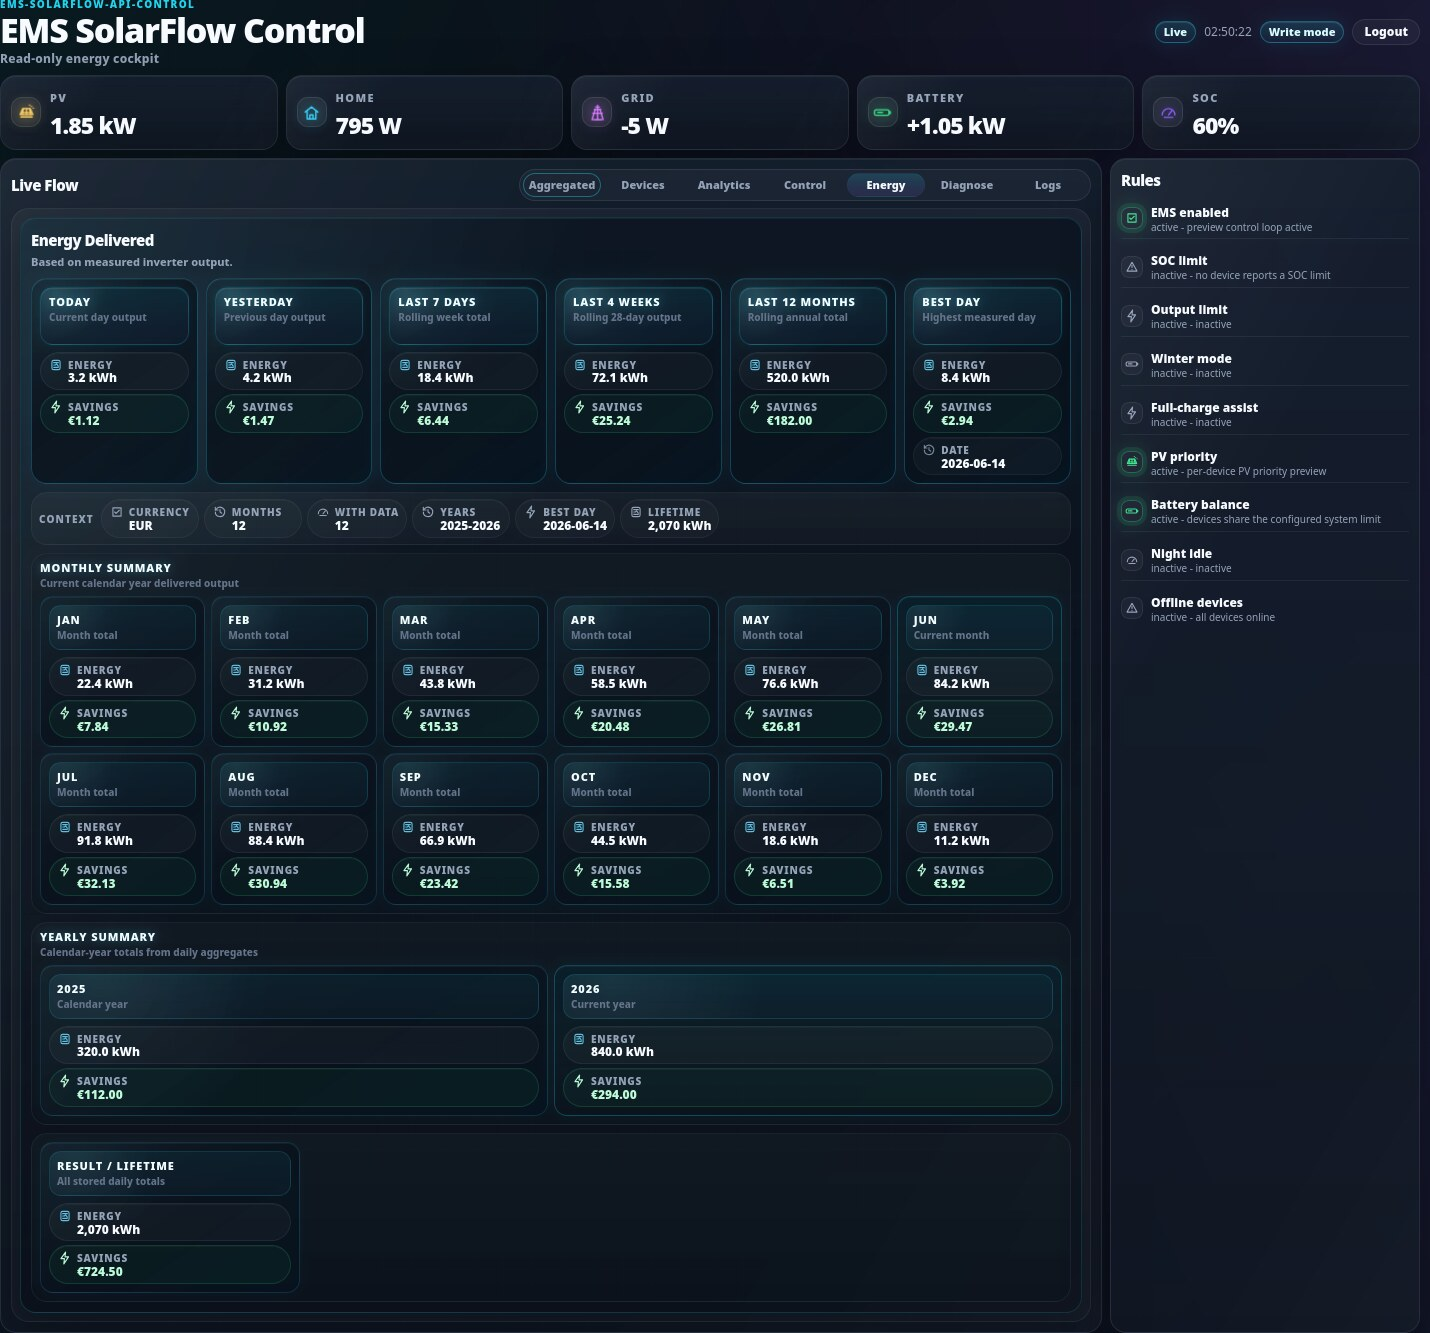
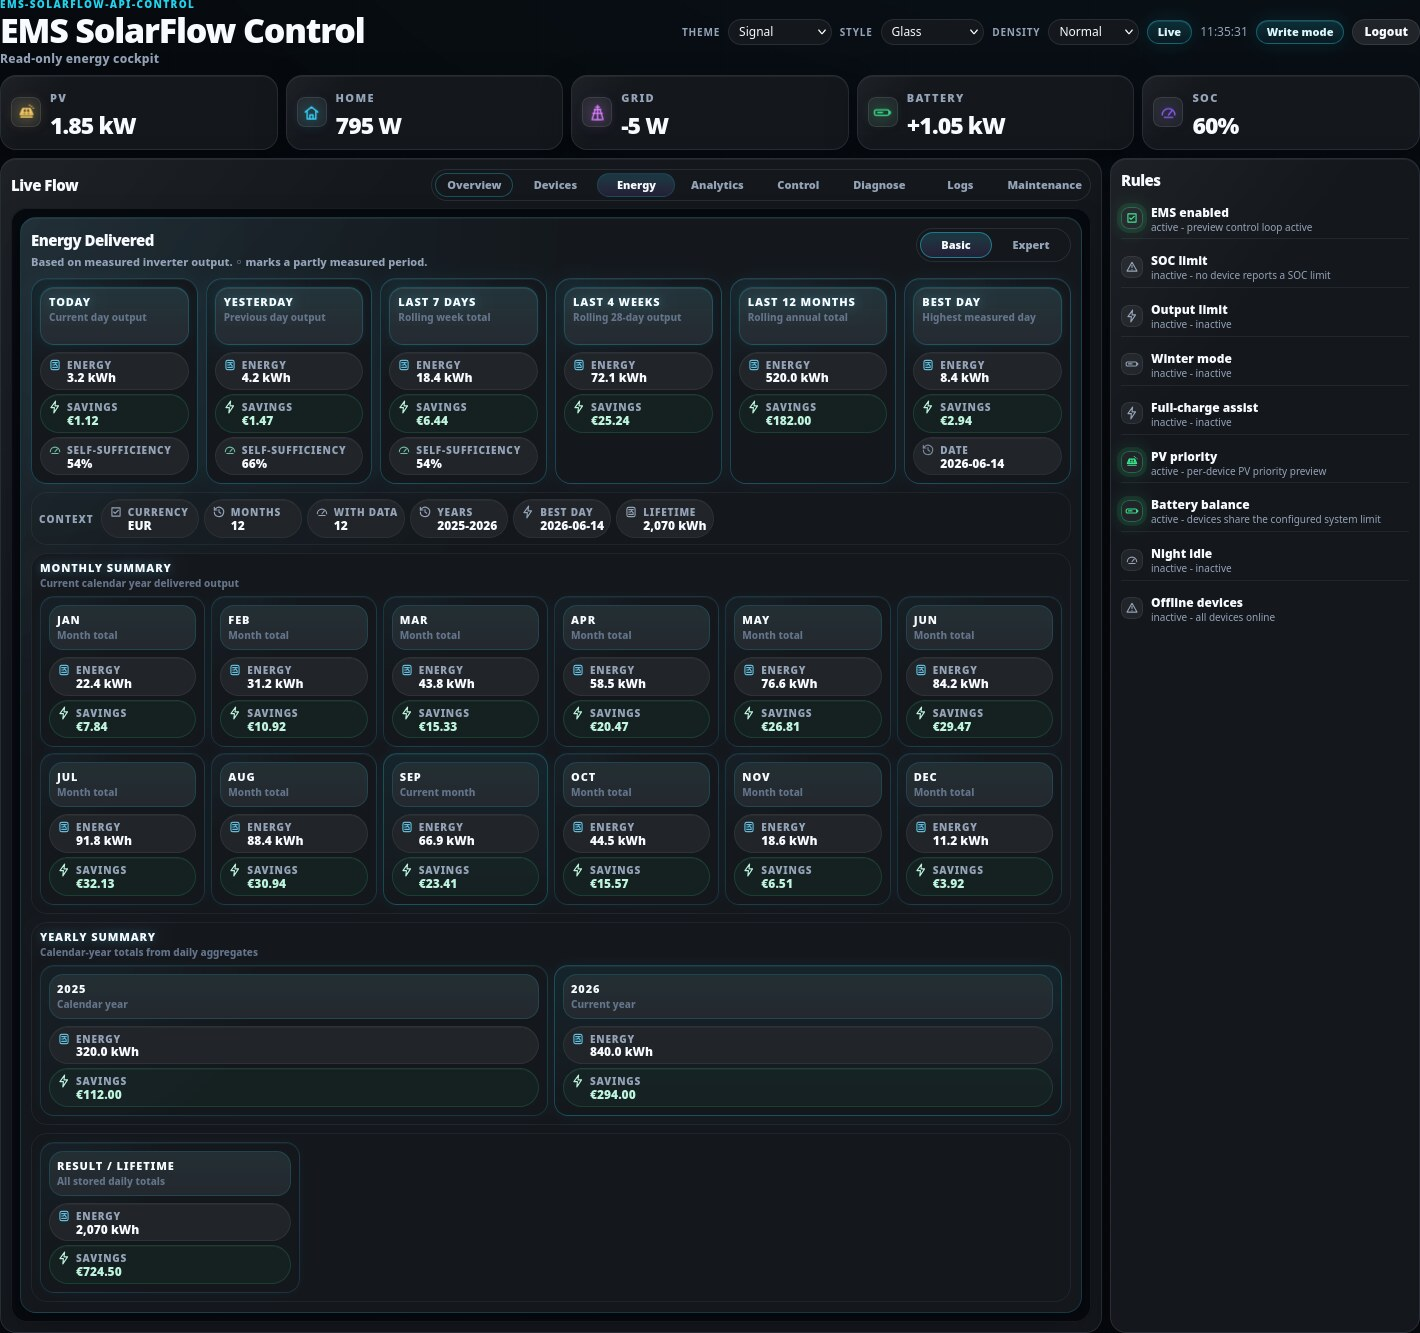
docs(dashboard): the energy screenshots show the board that ships
The captured energy board predated the feature: no detail switch, no
self-sufficiency, no channels, while the page next to it described all three.

Expert needs a second shot, and its state lives in localStorage rather than in
the payload, so the preview server takes a validated detail parameter through
the bootstrap it already injects. The expert board also outgrows the standard
capture window, which would have documented a board ending mid-card.

diff --git a/scripts/serve_dashboard_preview.py b/scripts/serve_dashboard_preview.py
@@ -79,20 +79,33 @@ SAFE_RESPONSE_CONTENT_TYPES = {
 }
 
 
-def _preview_injection(view):
+ENERGY_DETAIL_LEVELS = ("basic", "expert")
+
+
+def _preview_injection(view, energy_detail=None):
     """Minimal bootstrap injected into the real index.html.
 
     Sets the persisted flow view so the page opens directly in the requested
     view, then re-uses the existing frontend functions (setFlowView, runDiagnose)
-    once the page is ready. Values are constants from a fixed allow-list, so no
-    dynamic/user data is interpolated into the page.
+    once the page is ready. ``energy_detail`` seeds the energy board's
+    basic/expert choice, which lives in localStorage rather than in the payload,
+    so a screenshot can document the expert rows. Values are constants from a
+    fixed allow-list, so no dynamic/user data is interpolated into the page.
     """
 
     view_json = json.dumps(view)
+    detail_seed = ""
+    if energy_detail in ENERGY_DETAIL_LEVELS:
+        detail_json = json.dumps(energy_detail)
+        detail_seed = (
+            f"try{{window.localStorage.setItem('dashboard.energyDetail',{detail_json});}}"
+            "catch(e){}"
+        )
     before = (
         "<script>"
         f"try{{window.localStorage.setItem('dashboard.flowView',{view_json});}}"
         "catch(e){}"
+        f"{detail_seed}"
         "</script>"
     )
     after = f"""
@@ -397,7 +410,7 @@ class PreviewHandler(BaseHTTPRequestHandler):
             self._send_landing()
             return
         if path.startswith("/preview/"):
-            self._send_preview(path[len("/preview/"):])
+            self._send_preview(path[len("/preview/"):], parsed.query)
             return
         if path in ("/preview-diagnose.html", "/preview-logs.html"):
             # Backwards-compatible aliases for the original screenshot helper.
@@ -653,15 +666,19 @@ class PreviewHandler(BaseHTTPRequestHandler):
         body = _landing_page(self.server.scenario_name).encode("utf-8")
         self._send_bytes(body, "text/html; charset=utf-8")
 
-    def _send_preview(self, raw_view):
+    def _send_preview(self, raw_view, query=""):
         view = raw_view.strip("/").lower()
         if view not in FLOW_VIEWS:
             self.send_error(404, "Unknown preview view")
             return
+        detail = (parse_qs(query).get("detail") or [None])[0]
+        if detail is not None and detail not in ENERGY_DETAIL_LEVELS:
+            self.send_error(404, "Unknown energy detail level")
+            return
         index_path = os.path.join(STATIC_DIR, "index.html")
         with open(index_path, encoding="utf-8") as handle:
             html = handle.read()
-        before, after = _preview_injection(view)
+        before, after = _preview_injection(view, detail)
         seed = self._chart_seed_script(view)
         marker = '<script src="/app.js"></script>'
         html = html.replace(marker, f"{before}\n  {marker}{after}{seed}", 1)

diff --git a/scripts/capture_dashboard_docs.py b/scripts/capture_dashboard_docs.py
@@ -34,6 +34,9 @@ from serve_dashboard_preview import (  # noqa: E402
 )
 
 DESKTOP = "1440,2600"
+# The expert energy board carries six more rows per card and outgrows the
+# standard window; a cut-off frame would document a board that ends mid-card.
+DESKTOP_TALL = "1440,3800"
 NARROW = "390,1800"
 
 # screen id -> (flow view, scenario, output PNG basename, min trimmed height,
@@ -65,7 +68,16 @@ SCREENS = {
         700,
         DESKTOP,
     ),
-    "energy": ("energy", "normal", "dashboard-energy.png", 700, DESKTOP),
+    "energy": ("energy?detail=basic", "normal", "dashboard-energy.png", 700, DESKTOP),
+    # The basic/expert choice lives in localStorage, so the preview server
+    # seeds it rather than the payload carrying it.
+    "energy-expert": (
+        "energy?detail=expert",
+        "normal",
+        "dashboard-energy-expert.png",
+        900,
+        DESKTOP_TALL,
+    ),
     "analytics": ("analytics", "normal", "dashboard-analytics.png", 700, DESKTOP),
     "control": ("control", "write-mode", "dashboard-control.png", 1400, DESKTOP),
     "control-readonly": (

diff --git a/docs/assets/screenshots/dashboard/README.md b/docs/assets/screenshots/dashboard/README.md
@@ -22,7 +22,8 @@ by `scripts/capture_dashboard_previews.py`.
 | `dashboard-devices.png` | Devices — per-inverter cards | `normal` |
 | `dashboard-devices-offline.png` | Devices — one inverter offline | `offline-device` |
 | `dashboard-devices-readonly.png` | Devices — unauthenticated read-only | `auth-readonly` |
-| `dashboard-energy.png` | Energy Delivered | `normal` |
+| `dashboard-energy.png` | Energy Delivered — Basic | `normal` |
+| `dashboard-energy-expert.png` | Energy Delivered — Expert, with the channel rows | `normal` |
 | `dashboard-analytics.png` | Analytics | `normal` |
 | `dashboard-control.png` | Control pipeline + runtime settings | `write-mode` |
 | `dashboard-control-readonly.png` | Control without a session | `auth-readonly` |

diff --git a/docs/user/dashboard/energy.md b/docs/user/dashboard/energy.md
@@ -68,6 +68,8 @@ Expert applies everywhere on the tab: the period cards, the monthly summary,
 the yearly summary and the lifetime total all carry the same rows in the same
 order.
 
+![The Energy tab in Expert, with the channel rows on every card](../../assets/screenshots/dashboard/dashboard-energy-expert.png)
+
 **Grid import** is energy drawn from the grid, **grid export** is energy fed
 into it. **Charged** and **discharged** are the two directions of the battery.
 They are measured separately, so a day with both reports both — a single netted
